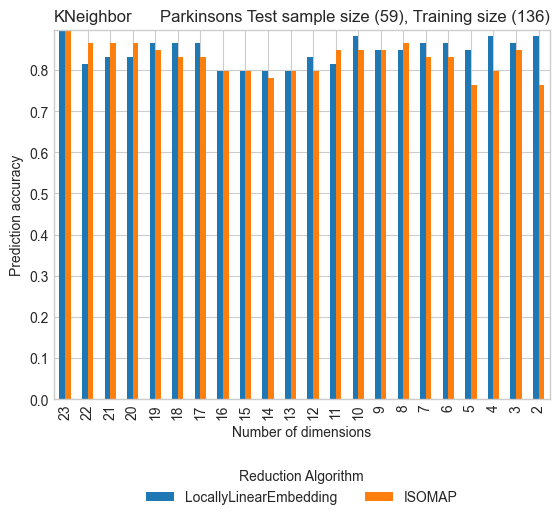
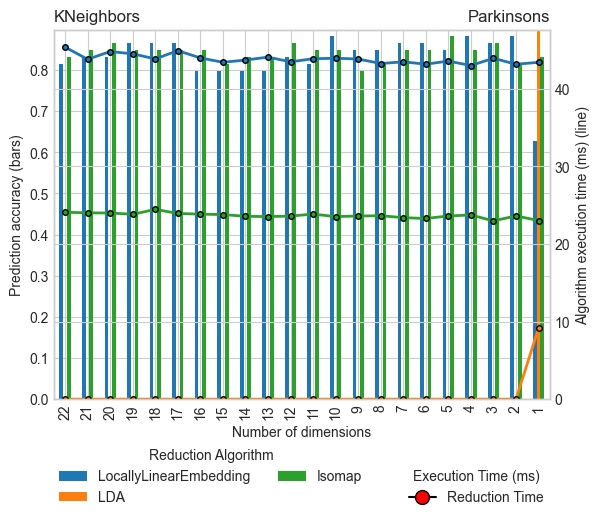
graphing updates

diff --git a/data.py b/data.py
@@ -4,6 +4,10 @@ import numpy as np
 from sklearn import preprocessing
 import matplotlib.pyplot as plt
 import numpy as np
+import matplotlib.patheffects as pe
+from matplotlib.legend_handler import HandlerLine2D, HandlerTuple
+from matplotlib.patches import Patch
+from matplotlib.lines import Line2D
 
 np.set_printoptions(precision=4, suppress=True)
 plt.style.use('seaborn-whitegrid')
@@ -37,15 +41,18 @@ def enumerate_all(csv):
     return csv
 
 class ReducedData:
-    def __init__(self, xData, xTrainingData , xTestData, dimension):
+    def __init__(self, xData, xTrainingData , xTestData, dimension, elapsedTime):
         self.xData = xData
         self.xTrainingData = xTrainingData
         self.xTestData = xTestData
         self.dimension = dimension
         self.classifierScore = {}
+        self.classifierTime = {}
+        self.elapsedTime = elapsedTime
 
-    def addClassifierScore(self, name, score):
+    def addClassifierScore(self, name, score, elapsedTime):
         self.classifierScore[name] = score
+        self.classifierTime[name] = elapsedTime
 
 
 class ReducedDataSet:
@@ -55,8 +62,8 @@ class ReducedDataSet:
         self.yTrainingData = None
         self.yTestData = None
 
-    def addReducedData(self, xData, xTrainingData , xTestData, Dimension):
-        self.reducedData.append(ReducedData(xData, xTrainingData , xTestData, Dimension))
+    def addReducedData(self, xData, xTrainingData , xTestData, Dimension, elapsedTime):
+        self.reducedData.append(ReducedData(xData, xTrainingData , xTestData, Dimension, elapsedTime))
         return self.reducedData[-1]
 
 
@@ -92,14 +99,11 @@ class DataObject:
         scoreData = []
         for datasets in self.reducedDataSets:
             scores = [ds.classifierScore["KNeighbors"] for ds in datasets.reducedData]
-            #scores.insert(0, gdb.firstDataPoint.score)
             scoreData.append(scores)
 
             dimensions = [ds.dimension for ds in datasets.reducedData]
-            #dimensions.insert(0, gdb.firstDataPoint.dimension)
 
-
-        df = pd.DataFrame(np.c_[scoreData[0], scoreData[1]], index=np.arange(0, self.graphLabelMax, 1).tolist(),
+        df = pd.DataFrame(np.c_[scoreData[0], scoreData[1], scoreData[2]], index=np.arange(0, self.maxDimensionalReduction, 1).tolist(),
                           columns=[rds.name for rds in self.reducedDataSets])
 
         ax = df.plot.bar()
@@ -107,18 +111,32 @@ class DataObject:
         lines, labels = ax.get_legend_handles_labels()
 
         plt.legend(lines, labels, title='Reduction Algorithm',
-                   bbox_to_anchor=(0.5, -0.3), loc="lower center",
+                   bbox_to_anchor=(0, -0.3), loc="lower left",
                    ncol=2, borderaxespad=0.)
         plt.subplots_adjust(wspace=2)
         plt.title(
             self.name,
             loc='right')
-        plt.title(gdb.name, loc='left')
-        plt.ylabel("Prediction accuracy")
+        plt.title("KNeighbors", loc='left')
+        plt.ylabel("Prediction accuracy (bars)")
         plt.xlabel("Number of dimensions")
         plt.margins(y=0)
 
-        plt.xticks(list(range(0, self.graphLabelMax)), dimensions)
+        plt.xticks(list(range(0, self.maxDimensionalReduction)), dimensions)
+
+        ax2 = ax.twinx()
+        for datasets in self.reducedDataSets:
+            ax2.plot(list(range(0, self.maxDimensionalReduction)),
+                            [ds.elapsedTime for ds in datasets.reducedData],marker='o',markersize=4, lw=2, markeredgecolor='black')
+
+        ax2.legend(handles=[Line2D([0], [0], marker='o', color='black', label='Reduction Time',
+                                  markerfacecolor='red', markersize=10)],
+                   bbox_to_anchor=(1, -0.3),title='Execution Time (ms)', loc="lower right",
+                   ncol=1, borderaxespad=0.)
+
+
+        plt.ylabel("Algorithm execution time (ms) (line)")
+        ax2.set_ylim(bottom=0)
 
         plt.savefig('graphs/' + self.name + '.png', bbox_inches='tight')
         plt.show()

diff --git a/main.py b/main.py
@@ -1,8 +1,6 @@
 import sklearn
 from sklearn.manifold import LocallyLinearEmbedding, Isomap
 import data, classification, reduction
-from sklearn.model_selection import train_test_split
-from sklearn import preprocessing
 
 def main():
     print("Hello World!")
@@ -11,8 +9,7 @@ if __name__ == "__main__":
     main()
 
 DataList = data.load_data()
-testDataPercent = 0.30
-selectionSeed = 3
+
 
 for do in DataList:
     print("\n\n#### " + do.name + " ####")
@@ -23,22 +20,20 @@ for do in DataList:
         for dimension in range(do.maxDimensionalReduction, 0, -1):
 
             if method.capByClasses and dimension > do.classes - 1:
+                data = dataset.addReducedData([], [], [], dimension, 0)
+                for classifier in classification.classificationAlgorithms:
+                    data.addClassifierScore(classifier.name, 0, 0)
+
                 continue
 
-            reducedData = method.execute(dimension, do.x, do.y)
-
-            xTrainingData, xTestData, dataset.yTrainingData, dataset.yTestData = train_test_split(reducedData, do.y,
-                                                                                              test_size=testDataPercent,
-                                                                                              random_state=selectionSeed)  ##random_state=2 data seed
-            xTrainingData = preprocessing.scale(xTrainingData)
-            xTestData = preprocessing.scale(xTestData)
-
-            data = dataset.addReducedData(reducedData, xTrainingData, xTestData, dimension)
+            data = method.execute(dimension, do.x, do.y, dataset)
 
             for classifier in classification.classificationAlgorithms:
-                temp_score = classifier.execute(xTrainingData, xTestData, dataset.yTrainingData, dataset.yTestData)
-                print(method.name + " with (",classifier.name,") classifier: ReductionScore (", temp_score, ") Dimension: (", dimension, "), classes: (",
+                temp_score, elapsedTime = classifier.execute(data.xTrainingData, data.xTestData, dataset.yTrainingData, dataset.yTestData)
+                data.addClassifierScore(classifier.name, temp_score, elapsedTime)
+
+                print(method.name + " with (", classifier.name, ") classifier: ReductionScore (", temp_score,
+                      ") Dimension: (", dimension, "), classes: (",
                       do.classes, ")")
-                data.addClassifierScore(classifier.name, temp_score)
 
     do.createGraph()

diff --git a/reduction.py b/reduction.py
@@ -1,6 +1,11 @@
 from sklearn.manifold import LocallyLinearEmbedding, Isomap
 from sklearn.discriminant_analysis import LinearDiscriminantAnalysis as LDA
+from sklearn.model_selection import train_test_split
+from sklearn import preprocessing
+from timeit import default_timer as timer
 
+testDataPercent = 0.30
+selectionSeed = 3
 
 class ReductionMethod:
     def __init__(self, capByClasses, name, method):
@@ -8,8 +13,19 @@ class ReductionMethod:
         self.method = method
         self.capByClasses = capByClasses
 
-    def execute(self, dimensions, x, y):
-        return self.method(dimensions, x, y)
+    def execute(self, dimension, x, y, dataset):
+        start = timer()
+        reducedData = self.method(dimension, x, y)
+        end = timer()
+
+
+        xTrainingData, xTestData, dataset.yTrainingData, dataset.yTestData = train_test_split(reducedData, y,
+                                                                                              test_size=testDataPercent,
+                                                                                              random_state=selectionSeed)  ##random_state=2 data seed
+        xTrainingData = preprocessing.scale(xTrainingData)
+        xTestData = preprocessing.scale(xTestData)
+
+        return dataset.addReducedData(reducedData, xTrainingData, xTestData, dimension, (end - start) * 1000)
 
 
 

diff --git a/classification.py b/classification.py
@@ -1,5 +1,6 @@
 from sklearn import neighbors
 from sklearn import metrics
+from timeit import default_timer as timer
 
 
 class ClassificationMethod:
@@ -8,9 +9,13 @@ class ClassificationMethod:
         self.method = method
 
     def execute(self, xTrainingData, xTestData, yTrainingData, yTestData):
+        start = timer()
         yTestPredictedData = self.method(xTrainingData, xTestData, yTrainingData, yTestData)
+        end = timer()
 
-        return metrics.accuracy_score(yTestData, yTestPredictedData)
+
+
+        return metrics.accuracy_score(yTestData, yTestPredictedData), (end - start) * 1000
 
 
 classificationAlgorithms: ClassificationMethod = []
